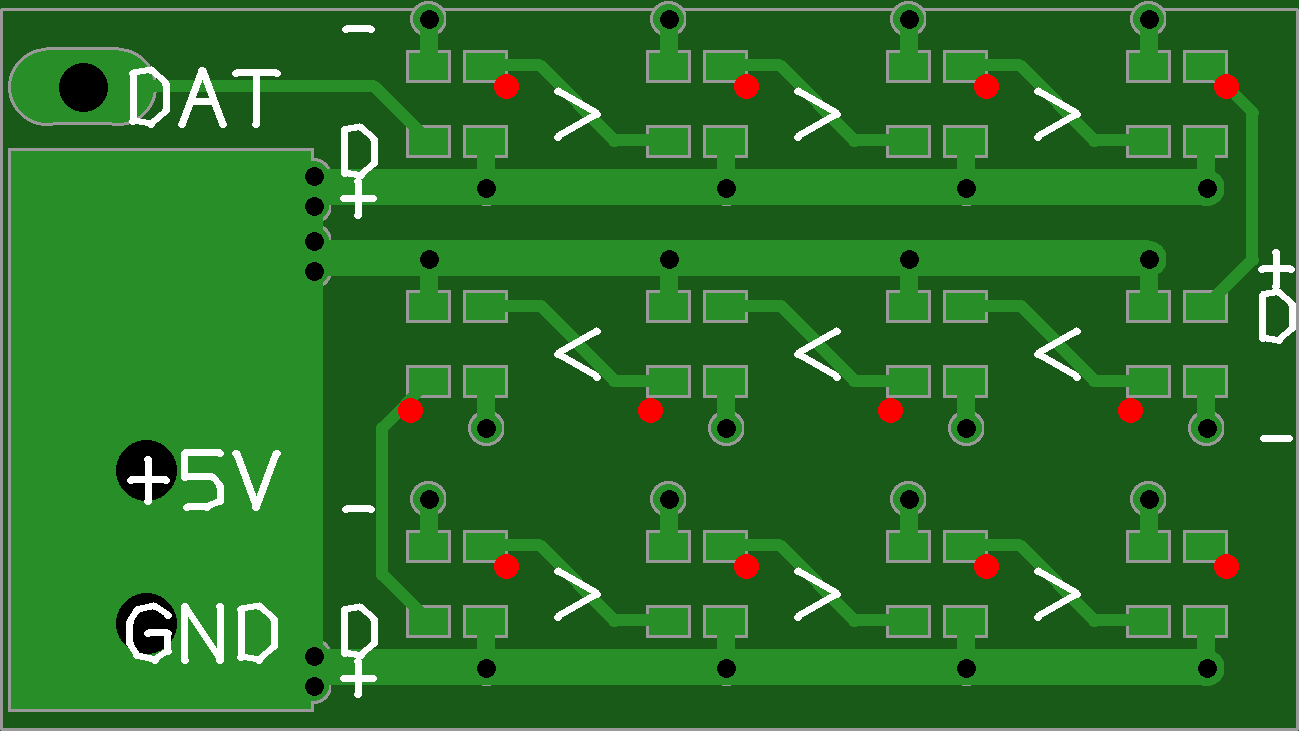
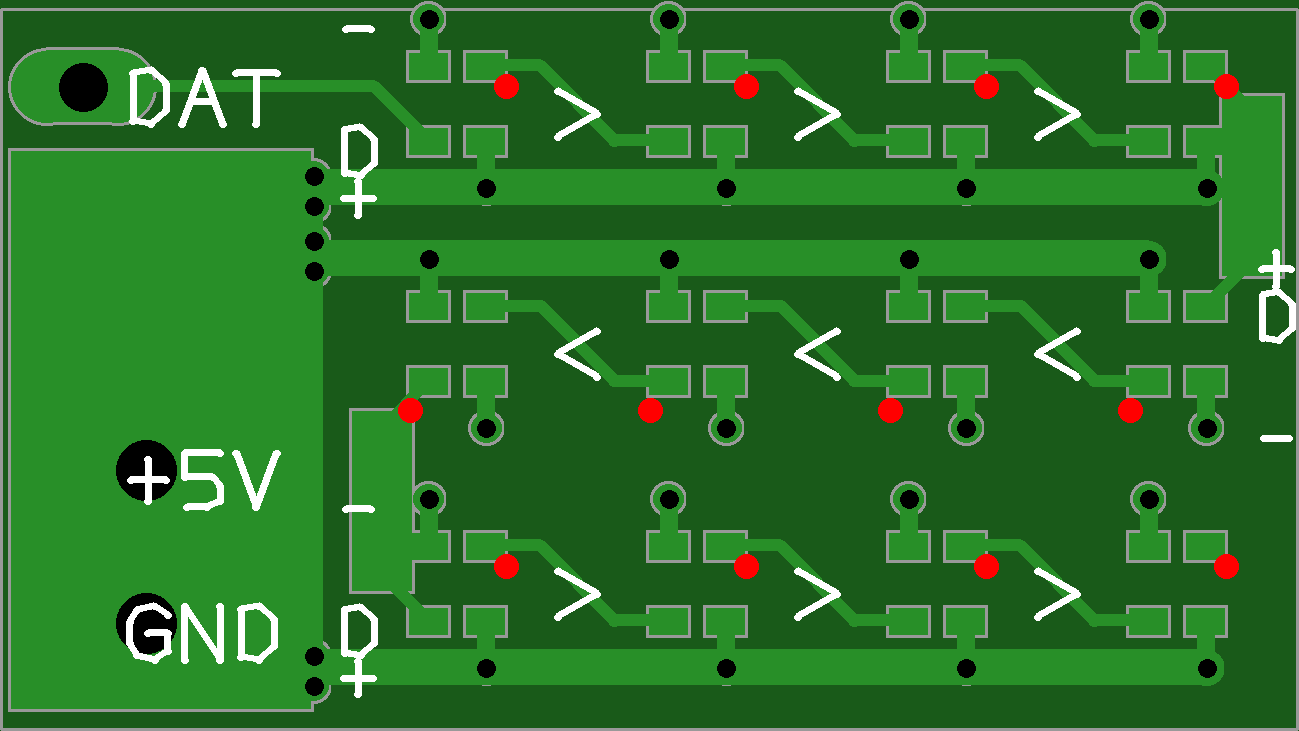
f1

Changed region(s): [[0.9238, 0.1204, 1.0, 0.3912], [0.2463, 0.5417, 0.3387, 0.8126]]

diff --git a/src/top_copper.py b/src/top_copper.py
@@ -27,6 +27,32 @@ import design_rules as DR
 TRACE_DATA  = DR.TRACE_DATA    # 0.15 mm
 TRACE_POWER = DR.TRACE_POWER   # 0.20 mm
 
+CUT_PAD_W = 1.0   # Trennpad-Breite  [mm]
+CUT_PAD_H = 3.0   # Trennpad-Hoehe   [mm]
+
+
+def cut_pad_positions(leds: List[LedInstance], fp: Footprint) -> list:
+    """(x,y)-Mittelpunkte der Trennpads bei 4-Pin-Reihenueebergaengen."""
+    if has_pad(fp, "CO"):
+        return []
+    by_index = {led.index: led for led in leds}
+    do_pad = get_pad(fp, "DO")
+    di_pad = get_pad(fp, "DI")
+    result = []
+    for led in leds:
+        next_led = by_index.get(led.index + 1)
+        if next_led is None or led.row == next_led.row:
+            continue
+        x1, y1 = pad_pos(led.x, led.y, led.rotation, do_pad)
+        x2, y2 = pad_pos(next_led.x, next_led.y, next_led.rotation, di_pad)
+        if abs(x1 - x2) >= 0.01:
+            continue
+        offset_sign = +1.0 if led.rotation == 270.0 else -1.0
+        x_mid = led.x + offset_sign * (fp.body_width / 2 + DR.TRACE_DATA / 2 + DR.MIN_SPACING)
+        y_mid = (y1 + y2) / 2
+        result.append((x_mid, y_mid))
+    return result
+
 
 def _power_pad_obstacles(led, fp) -> list:
     """Erzeugt Hindernis-Rechtecke fuer GND/VDD-Pads einer LED."""
@@ -59,9 +85,16 @@ def build_top_copper(
     trace_d  = g.add_aperture(ApertureShape.CIRCLE, TRACE_DATA)
     trace_p  = g.add_aperture(ApertureShape.CIRCLE, TRACE_POWER)
     via_ap   = g.add_aperture(ApertureShape.CIRCLE, 0.50)
+    cut_ap   = g.add_aperture(ApertureShape.RECT, CUT_PAD_W, CUT_PAD_H)
 
     def _pad_ap(rotation: float) -> int:
         return pad_ap_90 if rotation % 180 != 0 else pad_ap_0
+
+    # -------------------------------------------------------------------
+    # 0. Trennpads flashen (4-Pin: Mitte jedes Reihen-Uebergangs-Traces)
+    # -------------------------------------------------------------------
+    for cx, cy in cut_pad_positions(leds, fp):
+        g.flash(cut_ap, cx, cy)
 
     # -------------------------------------------------------------------
     # 1. LED-Pads flashen (rotierte Positionen, rotiertes Aperture)

diff --git a/src/other_layers.py b/src/other_layers.py
@@ -57,6 +57,14 @@ def build_top_soldermask(
     for vx, vy in _via_list(leds, fp, pitch):
         g.flash(via_ap, vx, vy)
 
+    # Trennpad-Oeffnungen (nur 4-Pin-LEDs)
+    if not has_pad(fp, "CO"):
+        from top_copper import cut_pad_positions, CUT_PAD_W, CUT_PAD_H
+        cut_ap = g.add_aperture(ApertureShape.RECT,
+                                CUT_PAD_W + 2 * SM_EXP, CUT_PAD_H + 2 * SM_EXP)
+        for cx, cy in cut_pad_positions(leds, fp):
+            g.flash(cut_ap, cx, cy)
+
     # Busbar VDD-Vias + VDD-Kupferflaeche + Connector-Pads (Top)
     if busbar > 0:
         from bottom_copper import (busbar_vdd_via_positions, BUSBAR_VDD_VIA_PAD,
